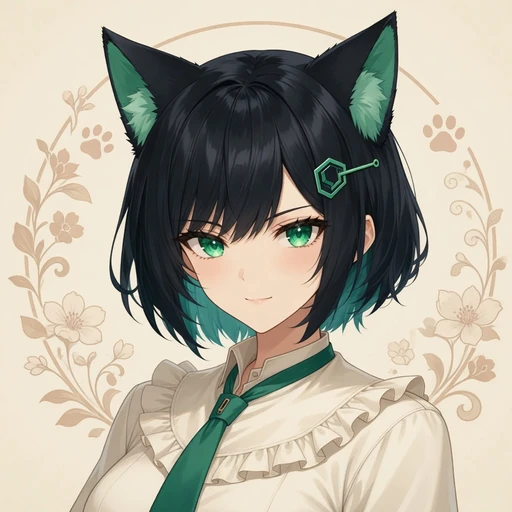
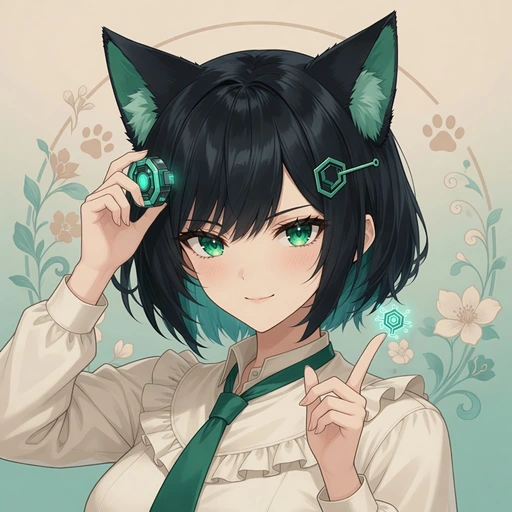
Refresh PWA brand art with hard-cel catgirl portraits.
Replace agent avatars, duo logo, and PWA icons with the approved Grok Imagine v2 cel-shaded set, document provenance, and ignore local .brand-src generation workspace.

diff --git a/docs/brand-art.md b/docs/brand-art.md
@@ -4,7 +4,7 @@
 
 Maintainer note: production brand and agent assets already ship under `pwa/public`. Rebuild only when replacing source art.
 
-The production mascot and agent portraits are original `gpt-image-2` outputs generated through a user-approved DragTokens image endpoint (2026-07-28). **No API key is stored in this repository.**
+The production mascot and agent portraits are original hard-cel anime catgirl assets. The current shipped set was regenerated with Grok CLI Imagine (`image_edit`, 2026-08-06) against the established NekoNest house style. Earlier gpt-image-2/DragTokens sources remain historical only. **No API key is stored in this repository.**
 
 ## Art direction
 

diff --git a/docs/brand-art.zh-CN.md b/docs/brand-art.zh-CN.md
@@ -4,7 +4,7 @@
 
 维护者说明：生产环境品牌与智能体资源已随 `pwa/public` 发布。仅在更换源图时重建。
 
-生产用吉祥物与智能体立绘为经用户批准的 DragTokens 图像接口生成的原创 `gpt-image-2` 输出（2026-07-28）。**仓库中不存放任何 API 密钥。**
+生产用吉祥物与智能体立绘为硬边赛璐璐日系猫娘原创资产。当前随包版本由 Grok CLI Imagine（`image_edit`，2026-08-06）在既有 NekoNest 画风上重生；更早的 gpt-image-2/DragTokens 源图仅作历史参考。**仓库中不存放任何 API 密钥。**
 
 ## 美术方向
 
